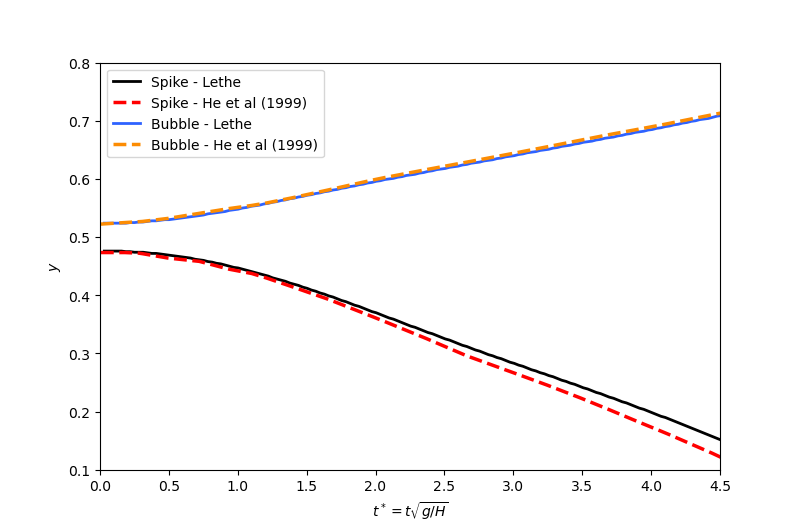
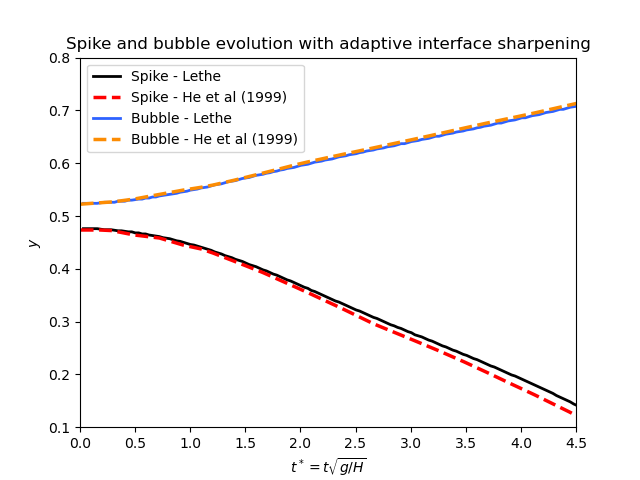
Verication exemple VOF + ajouts au .py (#714)
Description of the problem
Verification of Rayleigh-Taylor instability example
The .py was incomplete and some new features (projection step & phase filtration) were not used
Completed the .py to generate the graph of the mass of fluid 1

Description of the solution
Added some lines to .py to plot the data
Modified the .prm to implement new features

How Has This Been Tested?
Comparison between with/without projection step in the doc
Documentation
If applicable, list the documentation files changed and their changes

 rayleigh-taylor-instability.rst

Former-commit-id: 82bca34b05e4fa16e283bbbbeda76a0392e29daf

diff --git a/examples/multiphysics/rayleigh-taylor-instability/rayleigh-taylor_postprocess.py b/examples/multiphysics/rayleigh-taylor-instability/rayleigh-taylor_postprocess.py
@@ -19,6 +19,10 @@ import sys
 # Main
 #--------------------------------------------
 
+#To make it work, type "python3 rayleigh-taylor_postprocess.py ./output/adaptive/" or
+#"python3 rayleigh-taylor_postprocess.py ./output/constant /" into the terminal.
+
+
 #Load reference data from He et al (1999)
 ref_data_file = "ref_He_et_al_data.txt"
 ref_data = np.loadtxt(ref_data_file,skiprows=1)
@@ -37,6 +41,7 @@ phase_limit = 0.5
 output_path = sys.argv[1]
 
 
+
 #Define list of VTU files
 list_vtu = os.listdir(output_path)
 list_vtu = [x for x in list_vtu if ("vtu" in x and "pvtu" not in x)]
@@ -46,9 +51,9 @@ list_vtu = sorted(list_vtu)
 
 # Read the pvd file to extract the times
 if "constant" in list_vtu[0]:
-    reader = pv.get_reader("output/rayleigh-taylor-constant-sharpening.pvd")
+    reader = pv.get_reader("output/constant/rayleigh-taylor-constant-sharpening.pvd")
 else:
-    reader = pv.get_reader("output/rayleigh-taylor-adaptive-sharpening.pvd")
+    reader = pv.get_reader("output/adaptive/rayleigh-taylor-adaptive-sharpening.pvd")
 
 # Get active times
 time_list = reader.time_values
@@ -73,11 +78,11 @@ for vtu_file in list_vtu:
     sim = pv.read(f"{output_path}/{vtu_file}")
 
     sampled_data_spike = sim.sample_over_line(a_spike, b_spike, resolution=1000)
-    phase_spike = pd.DataFrame(sampled_data_spike["phase"])
+    phase_spike = pd.DataFrame(sampled_data_spike["filtered_phase"])
     points_spike = pd.DataFrame(sampled_data_spike.points)
 
     sampled_data_bubble = sim.sample_over_line(a_bubble, b_bubble, resolution=1000)
-    phase_bubble = pd.DataFrame(sampled_data_bubble["phase"])
+    phase_bubble = pd.DataFrame(sampled_data_bubble["filtered_phase"])
     points_bubble = pd.DataFrame(sampled_data_bubble.points)
 
     #Find min 'y' in phase > phase_limit (SPIKE)
@@ -110,5 +115,56 @@ ax0.set_xlabel(r'$t^* = t \sqrt{g/H}$')
 ax0.set_xlim([0, 4.5])
 ax0.set_ylim([0.1, 0.8])
 ax0.legend(loc="upper left")
-fig0.savefig(f'./spike_and_bubble_evolution.png')
+plt.title("Spike and bubble evolution with {} interface sharpening".format(output_path[9:-1]))
+fig0.savefig('./spike_and_bubble_evolution_{}.png'.format(output_path[9:-1]))
 plt.show()
+
+
+#Plot the mass of fluid along the simulation
+
+#Functions to turn .dat data in numpy array
+#Credits to Lucka Barbeau for the two functions below !
+def is_number(s):
+    try:
+        float(s)
+    except ValueError:
+        return False
+    return True
+def read_my_data(results_path):
+    force_file = open(results_path, 'r')
+    list_of_list_of_vars_name = [[]];
+    list_of_list_of_vars = [[]];
+    fix_vars_name = False
+
+    nb_set_of_vars = 0;
+    for line in force_file.readlines():
+        i = 0;
+        for word in line.split():
+            if is_number(word):
+                fix_vars_name = True
+                list_of_list_of_vars[nb_set_of_vars][i] = np.append(list_of_list_of_vars[nb_set_of_vars][i],
+                                                                    float(word))
+                i += 1
+            else:
+                if word != 'particle':
+                    if fix_vars_name:
+                        nb_set_of_vars += 1
+                        list_of_list_of_vars_name.append([])
+                        list_of_list_of_vars.append([])
+                        fix_vars_name = False
+                    list_of_list_of_vars_name[nb_set_of_vars].append(word)
+                    list_of_list_of_vars[nb_set_of_vars].append(np.array([]))
+    return list_of_list_of_vars_name, list_of_list_of_vars
+
+list_of_list_of_vars_name,list_of_list_of_vars=read_my_data(output_path + "VOF_monitoring_fluid_1.dat")
+
+
+plt.plot(list_of_list_of_vars[0][0],list_of_list_of_vars[0][2])
+plt.title("Evolution of the mass of fluid 1 with {} interface sharpening".format(output_path[9:-1]))
+plt.xlabel("Time (s)")
+plt.ylabel("Mass of fluid 1 (kg)")
+plt.ylim(37.4,37.6)
+plt.savefig('./mass_of_fluid_1_{}.png'.format(output_path[9:-1]))
+plt.show()
+
+

diff --git a/doc/source/examples/multiphysics/rayleigh-taylor-instability/rayleigh-taylor-instability.rst b/doc/source/examples/multiphysics/rayleigh-taylor-instability/rayleigh-taylor-instability.rst
@@ -120,39 +120,48 @@ The ``physical properties`` subsection defines the physical properties of the fl
 
 .. code-block:: text
 
-    #---------------------------------------------------
-    # Physical Properties
-    #---------------------------------------------------
-    subsection physical properties
-      set number of fluids = 2
-      subsection fluid 0
-        set density             = 100
-        set kinematic viscosity = 0.00153
-      end
-      subsection fluid 1
-        set density             = 300
-        set kinematic viscosity = 0.00153
-      end
-    end
+   #---------------------------------------------------
+   # Physical Properties
+   #---------------------------------------------------
+   subsection physical properties
+     set number of fluids = 2
+     subsection fluid 0
+       set density             = 100
+       set kinematic viscosity = 0.00153
+     end
+     subsection fluid 1
+       set density             = 300
+       set kinematic viscosity = 0.00153
+     end
+   end
 
-In the ``initial condition`` subsection, we need to define the interface between the heavy and light fluids. We define this interface by using a function expression in the ``VOF`` subsection of the ``initial condition``.
 
+In the ``initial condition`` subsection, we need to define the interface between the heavy and light fluids. We define this interface by using a function expression in the ``VOF`` subsection of the ``initial condition``. The interface between the two fluids is made smoother with the `projection step`_ parameter.
+
+.. _projection step: https://lethe-cfd.github.io/lethe/parameters/cfd/initial_conditions.html
 
 .. code-block:: text
 
-    #---------------------------------------------------
-    # Initial Condition
-    #---------------------------------------------------
-    subsection initial conditions
-      set type = nodal
-      subsection uvwp
-        set Function expression = 0; 0; 0
-      end
+   #---------------------------------------------------
+   # Initial Condition
+   #---------------------------------------------------
+
+   subsection initial conditions
+     set type = nodal
+     subsection uvwp
+       set Function expression = 0; 0; 0
+     end
+
+     subsection VOF
+       set Function expression = if (y>(0.5 + 0.1 * 0.25 * cos(2 *3.1415 * x / 0.25)) , 1, 0)
     
-      subsection VOF
-        set Function expression = if (y>(0.5 + 0.1 * 0.25 * cos(2 *3.1415 * x / 0.25)) , 1, 0)
-      end
-    end
+       subsection projection step
+         set enable           = true
+         set diffusion factor = 1
+       end
+    
+     end
+   end
 
 In the ``mesh`` subsection we configure the simulation domain. The ``initial refinement`` of the mesh is equal to 5, but we use mesh adaptation to coarsen the mesh in cells far from the interface to improve the computation performance.
 
@@ -225,25 +234,32 @@ In the ``VOF`` subsection, we enable ``interface sharpening`` to reconstruct the
 
 .. code-block:: text
 
-    #---------------------------------------------------
-    # VOF
-    #---------------------------------------------------
-    subsection VOF
-      subsection interface sharpening
-        set enable              = true
-        set threshold           = 0.5
-        set interface sharpness = 1.5
-        set frequency           = 25
-        set type                = constant
-      end
-    
-      subsection mass conservation
-        set monitoring      = true
-        set monitored fluid = fluid 1
-        set tolerance       = 1e-6
-        set verbosity       = quiet
-      end
-    end
+   #---------------------------------------------------
+   # VOF
+   #---------------------------------------------------
+
+   subsection VOF
+     subsection interface sharpening
+       set enable              = true
+       set threshold           = 0.5
+       set interface sharpness = 1.5
+       set frequency           = 25
+       set type                = constant
+     end
+
+     subsection mass conservation
+       set monitoring      = true
+       set monitored fluid = fluid 1
+       set tolerance       = 1e-2
+       set verbosity       = extra verbose
+     end
+
+     subsection phase filtration
+       set type  = tanh
+       set verbosity = verbose
+       set beta = 10
+     end
+   end
 
 
 and for the ``adaptive`` refinement
@@ -251,28 +267,37 @@ and for the ``adaptive`` refinement
 
 .. code-block:: text
 
-    #---------------------------------------------------
-    # VOF
-    #---------------------------------------------------
-    subsection VOF
-      subsection interface sharpening
-        set enable                  = true
-        set threshold               = 0.5
-        set interface sharpness     = 1.5
-        set frequency               = 25
-        set type                    = adaptative
-        set threshold max deviation = 0.2
-        set max iterations          = 50
-      end
-    
-      subsection mass conservation
-        set monitoring      = true
-        set monitored fluid = fluid 1
-        set tolerance       = 1e-2
-        set verbosity       = quiet
-      end
-    end
+   #---------------------------------------------------
+   # VOF
+   #---------------------------------------------------
 
+   subsection VOF
+     subsection interface sharpening
+       set enable                  = true
+       set threshold               = 0.5
+       set interface sharpness     = 1.5
+       set frequency               = 25
+       set type                    = adaptative
+       set threshold max deviation = 0.2
+       set max iterations          = 50
+     end
+
+     subsection mass conservation
+       set monitoring      = true
+       set monitored fluid = fluid 1
+       set tolerance       = 1e-2
+       set verbosity       = extra verbose
+     end
+
+     subsection phase filtration
+       set type  = tanh
+       set verbosity = verbose
+       set beta = 10
+     end
+   end
+
+The ``phase filtration`` is enabled in this example. We refer the reader to the :doc:`../../../../parameters/cfd/volume_of_fluid`
+documentation for more explanation on the phase filtration.
 
 ---------------------------
 Running the simulation
@@ -294,6 +319,13 @@ to run the simulations using eight CPU cores. Feel free to use more.
 -------
 Results
 -------
+
+In the following picture, the boundary between the two fluids is compared with (right) and without (left) ``projection step`` :
+
+.. image:: images/smoothedInitialCondition.png
+    :alt: Schematic
+    :align: center
+    :width: 800
 
 The following animation shows the results of this simulation:
 
@@ -326,10 +358,15 @@ With higher levels of refinement, we can see better correspondence between the v
     :width: 800
 
 
-The following figure shows the mass of fluid 1 throughout the simulation with a constant interface sharpening.
+The following figures shows the mass of fluid 1 throughout the simulation with a constant (top) and adaptive (bottom) interface sharpening.
 
 
-.. image:: images/mass-of-fluid1.png
+.. image:: images/constant_mass.png
+    :alt: Schematic
+    :align: center
+    :width: 400
+    
+.. image:: images/adaptive_mass.png
     :alt: Schematic
     :align: center
     :width: 400
